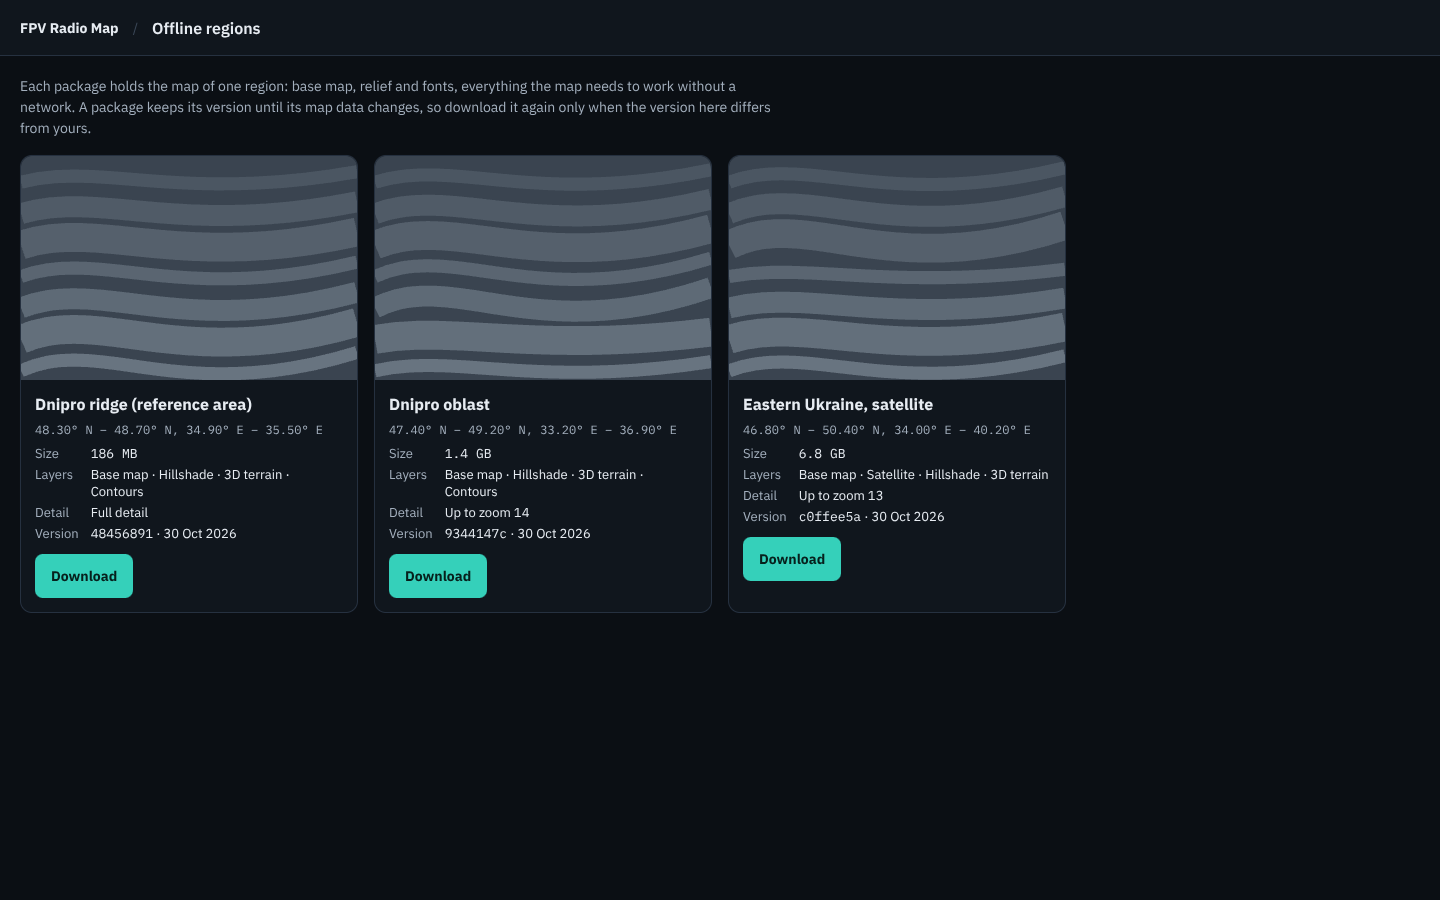
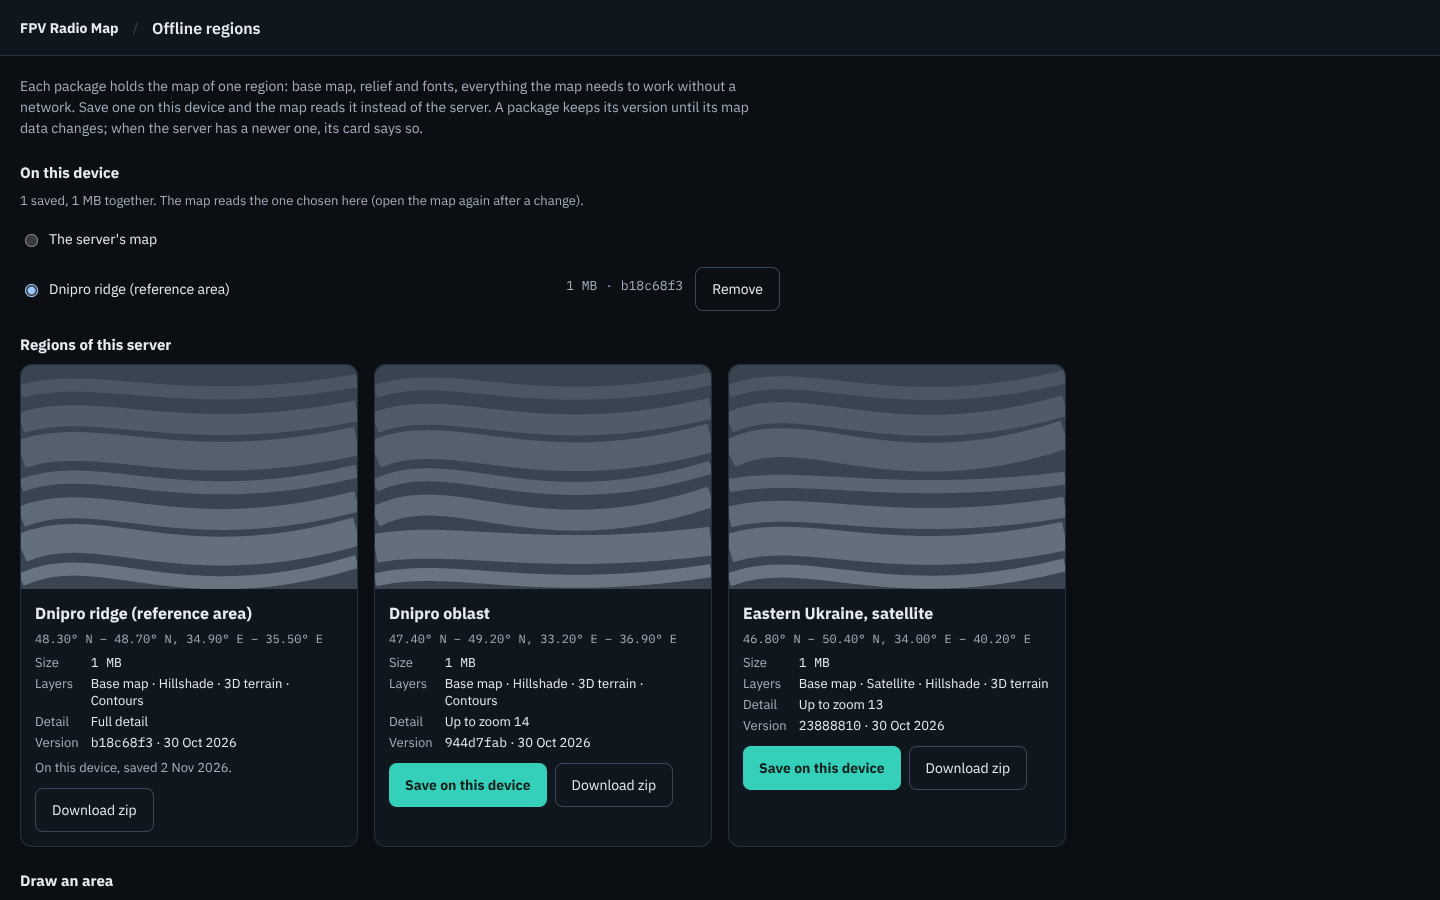
docs: drawn areas and packages saved on the device
OpenAPI for /areas, the admin guide's sections on drawn areas and on
the device, the settings, the rate class, the FAQ and glossary, nginx
streaming area packages, and screenshots of saving and drawing.

Claude-Session: https://claude.ai/code/session_01RZdhNaxArFLw6NWL9aUjs1

diff --git a/web/projects/fpv-app/src/app/offline/offline-regions.page.ts b/web/projects/fpv-app/src/app/offline/offline-regions.page.ts
@@ -38,7 +38,7 @@ type AreaView = OfflineAreaStatus | { id: string; state: 'gone' } | { id: string
           </p>
         }
         @if (library.saved().length) {
-          <p class="muted small rf-num">
+          <p class="muted small">
             {{ library.saved().length }} saved, {{ f.size(library.savedBytes()) }} together. The map reads the one chosen here
             (open the map again after a change).
           </p>

diff --git a/docs/admin/offline-regions.md b/docs/admin/offline-regions.md
@@ -131,14 +131,55 @@ Full downloads keyed by version are the simple and reliable choice. **Delta pack
 tiles that changed since a given version) are a possible later extension. PMTiles directories make
 it possible to compare two versions tile by tile, but the server does not offer them today.
 
-The web app lists the regions under **Offline** (`/offline`), with a download button for each.
+## 5. Areas users draw
+
+A pilot whose area is not in the list draws it on the map under **Offline**, and the server builds
+its package on request, with the same builder and from the same world files as the regions.
+
+![Drawing an area under Offline](../images/laptop-offline-draw.png)
+
+- **Limits.** `regions.areas` bounds what one request may cost: the area (km² on the Earth,
+  holes taken out), the corners of the polygon and the highest zoom. A request over a limit is
+  refused with `422` and a message that says which. The app shows the limits while the user draws.
+- **One build per polygon.** The id of an area is a hash of what was asked (polygon, name, layers,
+  zoom). The same polygon asked twice, by anyone, is one package. When it is current, the answer
+  comes at once.
+- **Queue.** Builds run one at a time on their own worker, beside the region scans, and up to
+  `regions.areas.maxQueued` wait. Past that a request gets `503` with `Retry-After`. Asking is in
+  its own rate class, `area`.
+- **Updates.** Asking again for an area already built checks it against the world files. When
+  they changed, the package is built anew and the older one stays downloadable meanwhile.
+- **Clean-up.** Packages live in `regions.areaDir`, apart from the regions. Asking for one or
+  downloading it counts as a use. One unused for `regions.areas.keepHours` is removed, and so are
+  the least recently used once they take more than `regions.areas.maxStoredMb`. Asking again
+  builds a removed one anew.
+
+The queue is held by the server process that took the request. With several processes behind
+one address, route `/api/v1/areas` to one of them, or accept that a status poll that reaches
+another process sees a queued area only once it is built (the packages on disk are shared).
+
+## 6. On the device
+
+The web app lists the regions under **Offline** (`/offline`).
 
 ![Offline regions page](../images/laptop-offline-regions.png)
 
-Saving a package inside the app and using it for the map without a network is the next step on
-the client.
+**Save on this device** downloads a package into the browser's storage (IndexedDB). The app
+hashes it while it arrives and keeps it only when its size and SHA-256 are those of the catalog.
+It asks the browser to keep the data (persistent storage) and checks the room the browser allows
+before it starts. When the catalog lists a newer version, the card says **Update available**. The
+saved copy stays usable until the update is complete.
 
-## 5. Settings
+Under **On this device** the user picks the saved package the map reads. The map then takes the
+tiles and fonts of the package from the stored zip, by byte ranges, without unpacking it. It does
+so also when the server cannot be reached, and keeps the server's weather layers when it can.
+The radio calculations still need the server. The app itself must already be open, or cached by
+the browser, to start without a network.
+
+A browser without IndexedDB (some private modes) keeps a saved package only while the page is
+open, and the page says so. **Download zip** gives the package as a file for other tools.
+
+## 7. Settings
 
 | Key | Default | Notes |
 |---|---|---|
@@ -148,12 +189,19 @@ the client.
 | `regions.pmtiles` | `/usr/local/bin/pmtiles` | go-pmtiles. The server image carries the same pinned release as tools/tiles-builder. It is started directly with fixed arguments and an empty environment, never through a shell. |
 | `regions.rescanMinutes` | 10 | 0 = only at start and on reload. A scan that finds nothing changed reads no tile data. |
 | `regions.maxDownloads` | 0 (automatic) | Package downloads streamed at once. Each one holds a request thread until the client has it all, so a further one gets `503` with `Retry-After` instead of starving the other requests. Automatic is a quarter of `server.threads`, at least one. Metrics show it as the `downloads` gate. |
+| `regions.areaDir` | `/var/lib/rfmap/areas` | Packages of drawn areas; written only by the server. Not inside `packageDir`. |
+| `regions.areas.maxAreaKm2` | 2500 | The largest drawn area built. 0 turns drawing areas off. |
+| `regions.areas.maxVertices` | 1000 | Corners in all rings of the polygon together. |
+| `regions.areas.maxZoom` | 14 | The highest zoom of a drawn area, and that of a request that names none. One zoom more is about four times the tiles. |
+| `regions.areas.maxQueued` | 8 | Builds that may wait for the one running. |
+| `regions.areas.keepHours` | 168 | A package nobody asked for or downloaded this long is removed. |
+| `regions.areas.maxStoredMb` | 20480 | All drawn packages together. Past it the least recently used go first. |
 
 The bundled nginx streams package downloads without buffering them (`proxy_buffering off`) and
 passes Range requests through. Behind another proxy, do the same for
-`/api/v1/regions/*/packages/`.
+`/api/v1/regions/*/packages/` and `/api/v1/areas/*/packages/`.
 
-## 6. API
+## 8. API
 
 | | |
 |---|---|
@@ -163,5 +211,9 @@ passes Range requests through. Behind another proxy, do the same for
 | `GET /api/v1/regions/{id}/previews/{previewVersion}.png` | the preview |
 | `GET /api/v1/admin/regions` | every region with `ready`, `building` or `failed` and the last error |
 | `POST /api/v1/admin/regions/reload` | scan now |
+| `GET /api/v1/areas` | whether areas can be drawn, and the limits |
+| `POST /api/v1/areas` | ask for the package of a polygon: `200` when current, `202` when queued |
+| `GET /api/v1/areas/{id}` | `queued` (with its place), `building`, `ready` or `failed` |
+| `GET /api/v1/areas/{id}/packages/{version}.zip` | the package, as for a region |
 
 Details are in the [OpenAPI description](../api/openapi.yaml).

diff --git a/docs/admin/deploy.md b/docs/admin/deploy.md
@@ -188,7 +188,7 @@ Settings you will most likely touch:
 | `database.leaseTimeoutMs` | 10000 | How long a request waits for one of the `database.poolSize` connections. When every connection stays lent that long, the request gives up and answers 503 with `Retry-After`, so the timeout bounds how long it holds its request thread while it waits; `rfmap_db_pool_lease_timeouts_total` counts them. It trips when the pool is exhausted: every connection stays lent for the whole wait, because PostgreSQL is stuck or slow, or because long-running work holds all of them. If it trips often, look at slow queries before raising `database.poolSize`. |
 | `database.statementTimeoutMs` | 60000 | Set as `statement_timeout` on every pooled session, so PostgreSQL cancels a statement that runs longer and frees the connection (the request answers 500). Schema migrations at start run without it. 0 keeps whatever the role or database sets (`ALTER ROLE rfmap SET statement_timeout = ...`). Normal queries take milliseconds; keep the default unless a result table on slow storage needs more. |
 | `database.lockTimeoutMs`, `database.idleInTransactionTimeoutMs` | 10000, 60000 | Set as `lock_timeout` and `idle_in_transaction_session_timeout` on every pooled session, so one session that holds a lock cannot stall the others: a statement that waits longer for a lock gives up (the request answers 500), and PostgreSQL ends a session that sits idle inside a transaction, which releases its locks. Schema migrations at start run without them. 0 keeps the role's or the database's own setting. |
-| `rateLimits.<class>` | see example | Token buckets per client address. Classes: `default`, `open` (PIN attempts and the public link lookup), `create`, `calc`, `coverage`, `admin`. |
+| `rateLimits.<class>` | see example | Token buckets per client address. Classes: `default`, `open` (PIN attempts and the public link lookup), `create`, `calc`, `coverage`, `area` (drawn offline areas asked for), `admin`. |
 | `coverage.maxCells`, `coverage.threads` | 250000, 4 | Larger grids are refused with 422. |
 | `calc.maxRouteSamples` | 20000000 | The most terrain samples one `POST /calc/route` may read. Each leg is sampled at the DEM step and every position builds a profile from the pilot, so the work is positions times profile samples; the server works out an upper bound before it starts and refuses a larger route with 422. A sample costs about 1 µs of one core with both links, so the default holds a request thread for at most about 20 s. A 100 km route with a 30 m DEM is around 10 million. |
 | `calc.concurrency`, `calc.queue`, `calc.waitMs` | automatic, automatic, 10000 | `POST /calc/path` and `POST /calc/route` run on the request threads, so they are bounded like PIN checks: that many run at once, that many more wait up to `waitMs` for a slot, and the rest get 503 with `Retry-After` at once. A request is validated and sized before it takes a slot. Automatic is one calculation per CPU core, at most half of `server.threads` but at least one, with a queue of the same size but at most a quarter of `server.threads` and never the last spare thread, so health checks, map viewers and PIN checks always find a request thread. The one exception is `server.threads` set to 1: that single thread also runs calculations, and nothing is left spare. Coverage jobs have their own limit (`coverage.maxJobs`). |
@@ -199,7 +199,7 @@ Settings you will most likely touch:
 | `weather.metaUrl` | empty | The synced model's `meta.json`. With it, results give the forecast run time (`runUtc`). |
 | `ops.listen`, `ops.port`, `ops.drainSeconds` | `127.0.0.1`, 9090, 5 | The operations listener: `GET /healthz`, `/readyz` and `/metrics` on a port of its own, see [Health, readiness and metrics](#health-readiness-and-metrics). |
 | `metrics.enabled`, `metrics.token`, `metrics.allowFrom` | `false`, empty, `[]` | Serves `GET /metrics` on the operations listener in the Prometheus text format: request rates and durations, the request, job and cell thread pools, the database pool (open and idle sessions, waits, lease timeouts, sessions opened, closed and failed to open), the PIN, calculation and package download gates (`rfmap_gate_*`), the caches, and the process's CPU time, memory, threads and open files. Guarded by a token of its own (`RFMAP_METRICS_TOKEN`, at least 16 characters) and/or the scraper's networks; with neither, only loopback may read it. |
-| `regions.*` | off | Offline region packages cut from the world map data: `worldDir`, `definitions`, `packageDir`, `pmtiles`, `rescanMinutes`, `maxDownloads`. Compose sets `worldDir` to `/data` and mounts `RFMAP_REGIONS_DIR` with `regions.json`. See [Offline regions](offline-regions.md). |
+| `regions.*` | off | Offline region packages cut from the world map data: `worldDir`, `definitions`, `packageDir`, `pmtiles`, `rescanMinutes`, `maxDownloads`, and for areas users draw `areaDir` and `areas.*`. Compose sets `worldDir` to `/data` and mounts `RFMAP_REGIONS_DIR` with `regions.json`. See [Offline regions](offline-regions.md). |
 | `map` | — | Merged over the map sources `GET /api/v1/config/map` returns. Attribution comes from `manifest.json` next to the DEM. |
 
 ### Health, readiness and metrics

diff --git a/docs/guide/faq.md b/docs/guide/faq.md
@@ -13,7 +13,7 @@ Open an [equipment data issue](https://github.com/Rufics/fpv-radio-map/issues/ne
 Yes, on your own server with your own terrain tiles. See [Deployment](../admin/deploy.md).
 
 **Can I take the map of my area into the field?**
-Open **Offline** in the header. It lists the regions your server offers, with a preview, the area, the size and the version, and downloads a region as one zip: the map, relief and 3D terrain tiles, the style, fonts and a manifest. The server cuts these regions out of its world map data and rebuilds a package when the data changes; a new version means an update is available. The radio calculations still need the server. The admin sets the regions up as described in [Offline regions](../admin/offline-regions.md).
+Open **Offline** in the header. It lists the regions your server offers, with a preview, the area, the size and the version. **Save on this device** keeps a region in the browser: the map, relief and 3D terrain tiles, and the fonts. Under **On this device**, pick the saved region the map should use. The map then reads it from the device, also when the server cannot be reached. When the server has a newer version, the region's card says **Update available**. If your area is not in the list, draw it under **Draw an area**: click the corners on the map, name it and press **Build package**. The server builds it, usually within minutes, and the card follows the build. The page shows the largest area your server builds. The radio calculations still need the server. The admin sets the regions up as described in [Offline regions](../admin/offline-regions.md).
 
 **How do I see the route in 3D?**
 Press **3D** on the map. The terrain rises, the right mouse button turns the map, and two sliders set the tilt and how much heights are exaggerated. **Altitude** opens the profile under the map: the ground, your planned altitude and the safe corridor. Hover the profile to read the height above launch and above the ground at that point; the 3D view marks the same spot. The first time, the profile asks to turn on the altitude corridor for the mission, which needs the `fpv.altitude` module on the server. The 3D relief needs `terrain.pmtiles`; without it the route is drawn over a flat map.

diff --git a/docs/guide/glossary.md b/docs/guide/glossary.md
@@ -30,6 +30,6 @@
 
 **Stall margin.** How far the airspeed is above the stall speed. In a banked turn the stall speed rises (by the square root of 1/cos of the bank angle, ×1.19 at 45°), so a plane with a small margin in level flight can stall in a turn.
 
-**Offline region.** An area the server offers for download, cut out of its world map data by a box, an administrative boundary or a polygon. Its **package** is one zip with the map tiles, the relief and terrain, the style, fonts and a manifest. The package's **version** changes only when its contents change, so a different version means an update is available.
+**Offline region.** An area the server offers for download, cut out of its world map data by a box, an administrative boundary or a polygon. Its **package** is one zip with the map tiles, the relief and terrain, the style, fonts and a manifest. The package's **version** changes only when its contents change, so a different version means an update is available. A **drawn area** is the same, for a polygon a user drew; the server builds its package on request. A package **saved on this device** lives in the browser, and the map can read it without a network.
 
 **Turn radius.** How wide a fixed-wing turns at its airspeed plus the wind and its maximum bank. At a waypoint the plane starts the turn before it and cuts inside; a turn that needs more than half of either leg does not fit.
